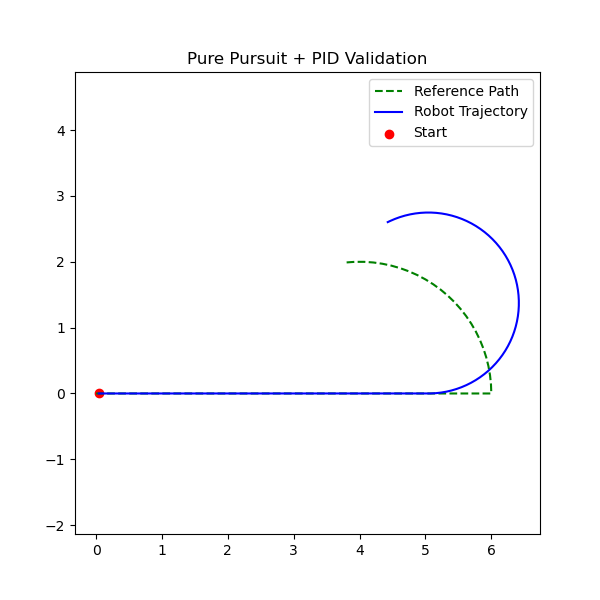
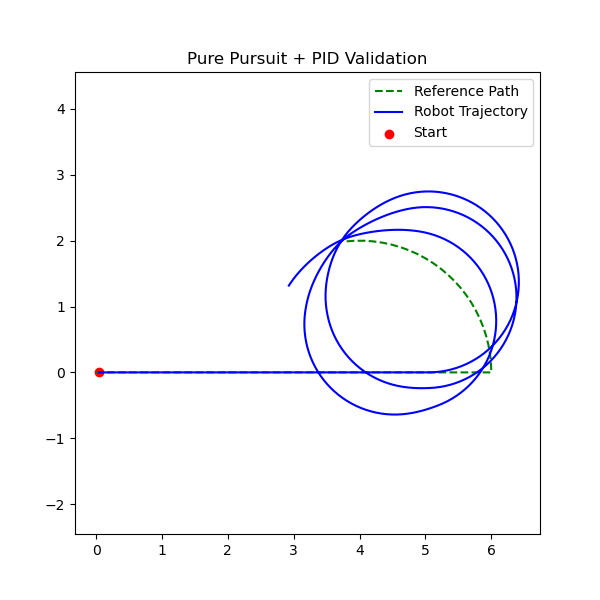
Additional test

diff --git a/ugv_formation_sim/tests/test_pure_pursuit.py b/ugv_formation_sim/tests/test_pure_pursuit.py
@@ -27,7 +27,7 @@ xs, ys = [], []
 
 # 3. Run the simulation for ~5 seconds
 dt = 0.02  # 50 Hz
-steps = int(10 / dt)
+steps = int(30 / dt)
 
 print("Starting Pure Pursuit + PID validation...")
 
